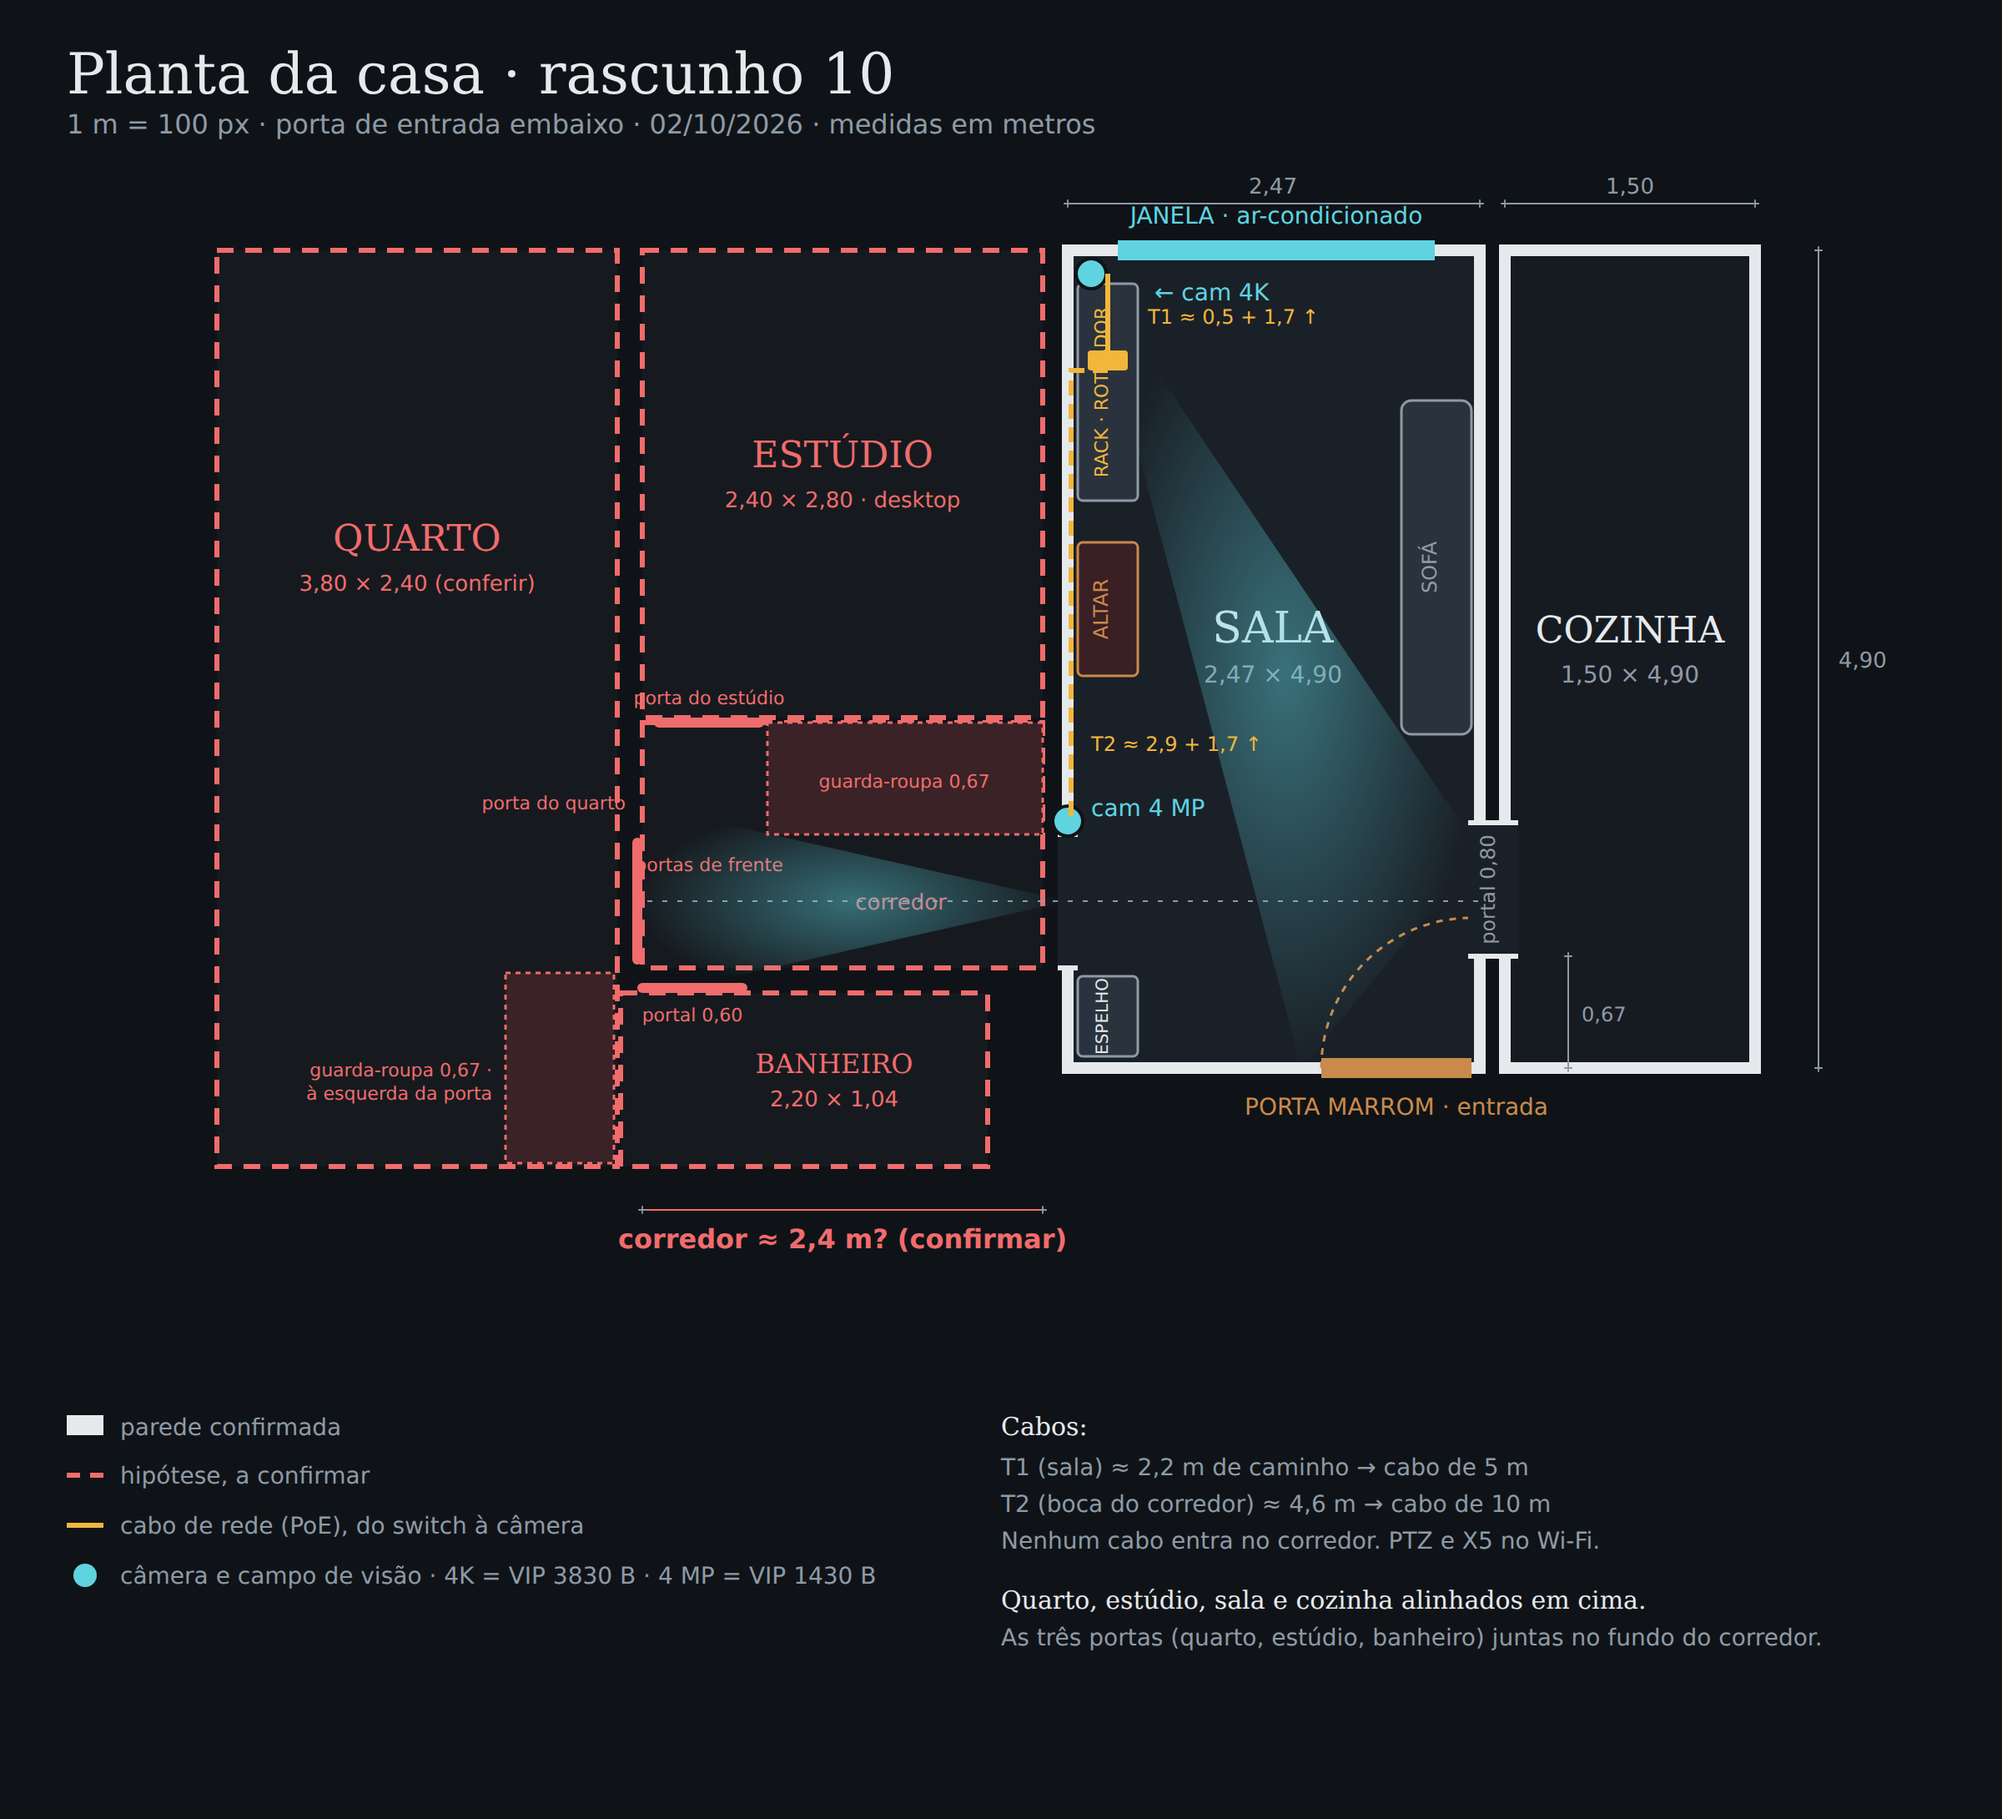
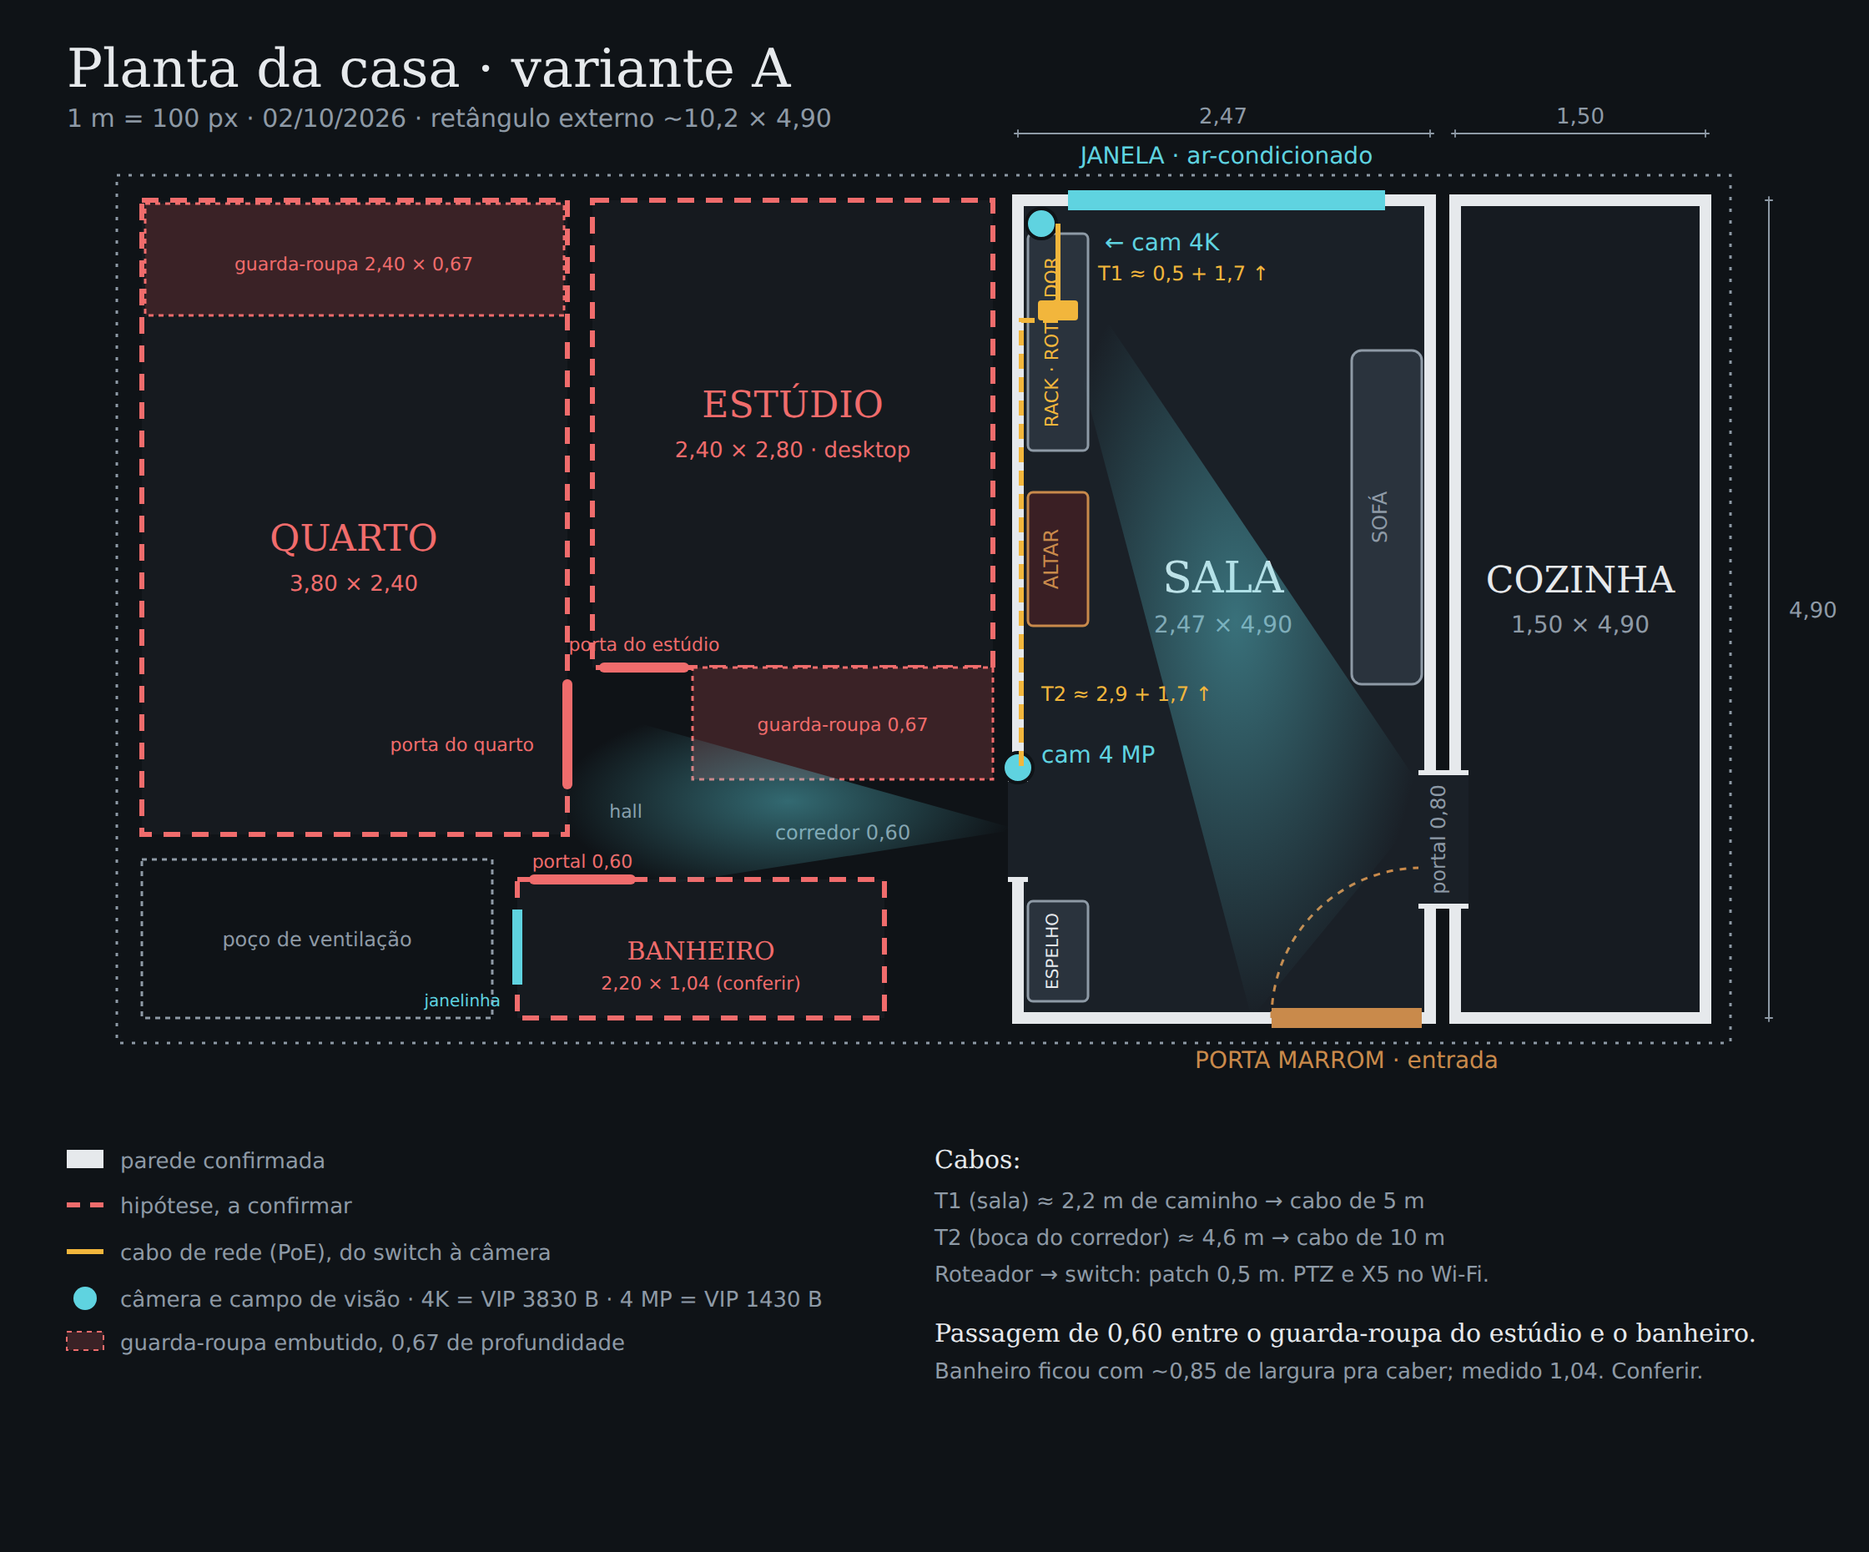
Planta variante A: estúdio colado na sala, guarda-roupas de 2,40 x 0,67, passagem de 0,60
Claude-Session: https://claude.ai/code/session_01F69cVt87X4mSze32jm77sF

diff --git a/cameras/esquema-cabos.html b/cameras/esquema-cabos.html
@@ -200,7 +200,7 @@ footer{margin-top:40px;font-size:.8rem;color:var(--muted)}
     </div>
   </section>
 
-  <footer>Planta: rascunho 10 de 02/10/2026, fundo da casa ainda como hipótese. Microcartão SD dispensado: gravação pelo desktop (OBS ou app próprio).</footer>
+  <footer>Planta: variante A de 02/10/2026, fundo da casa ainda como hipótese. Microcartão SD dispensado: gravação pelo desktop (OBS ou app próprio).</footer>
 </div>
 
 <script>
